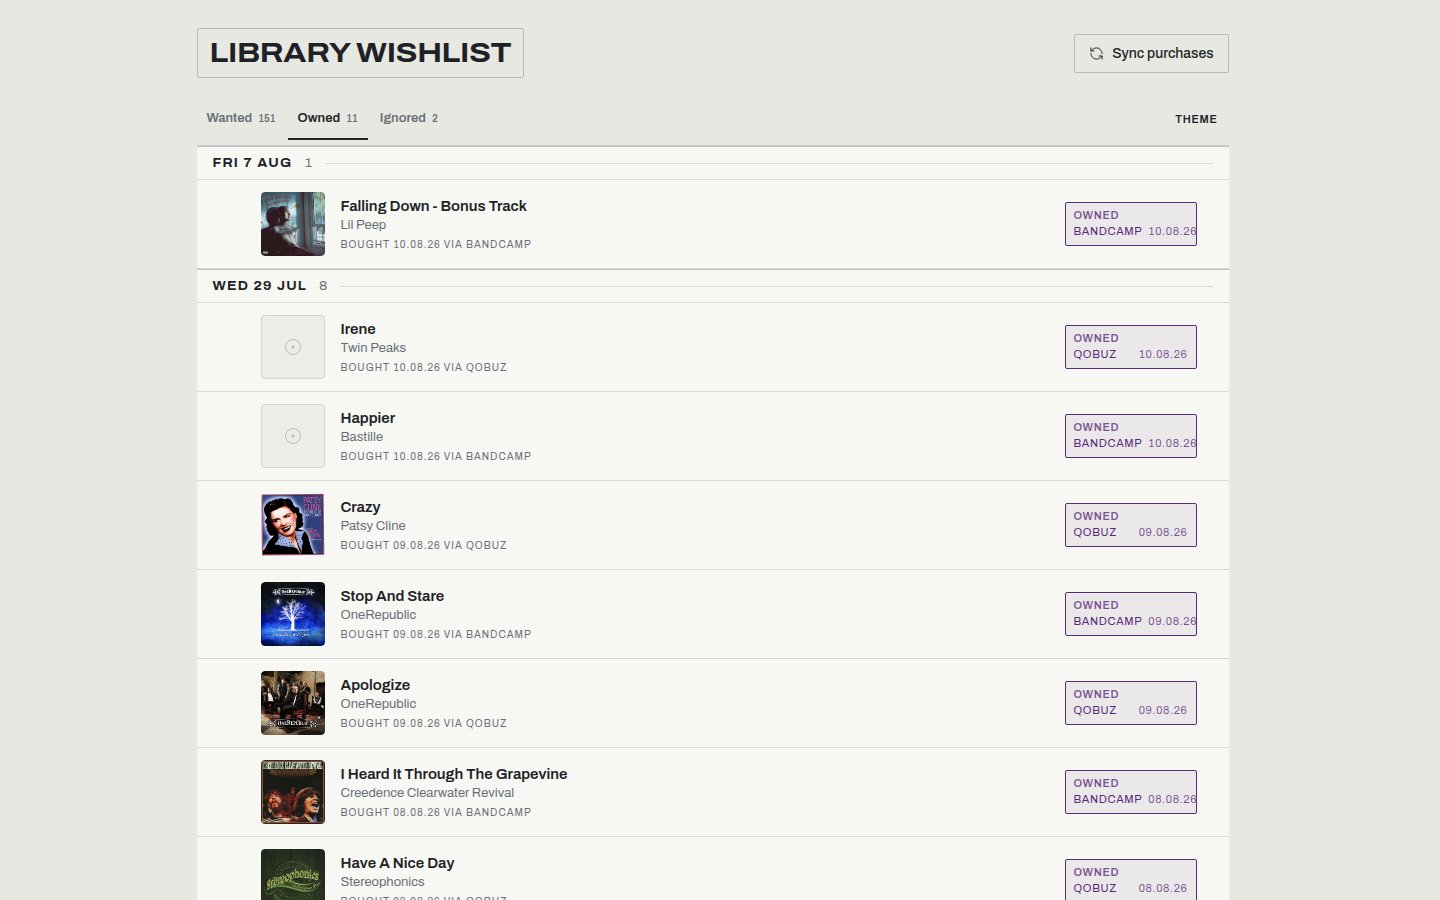
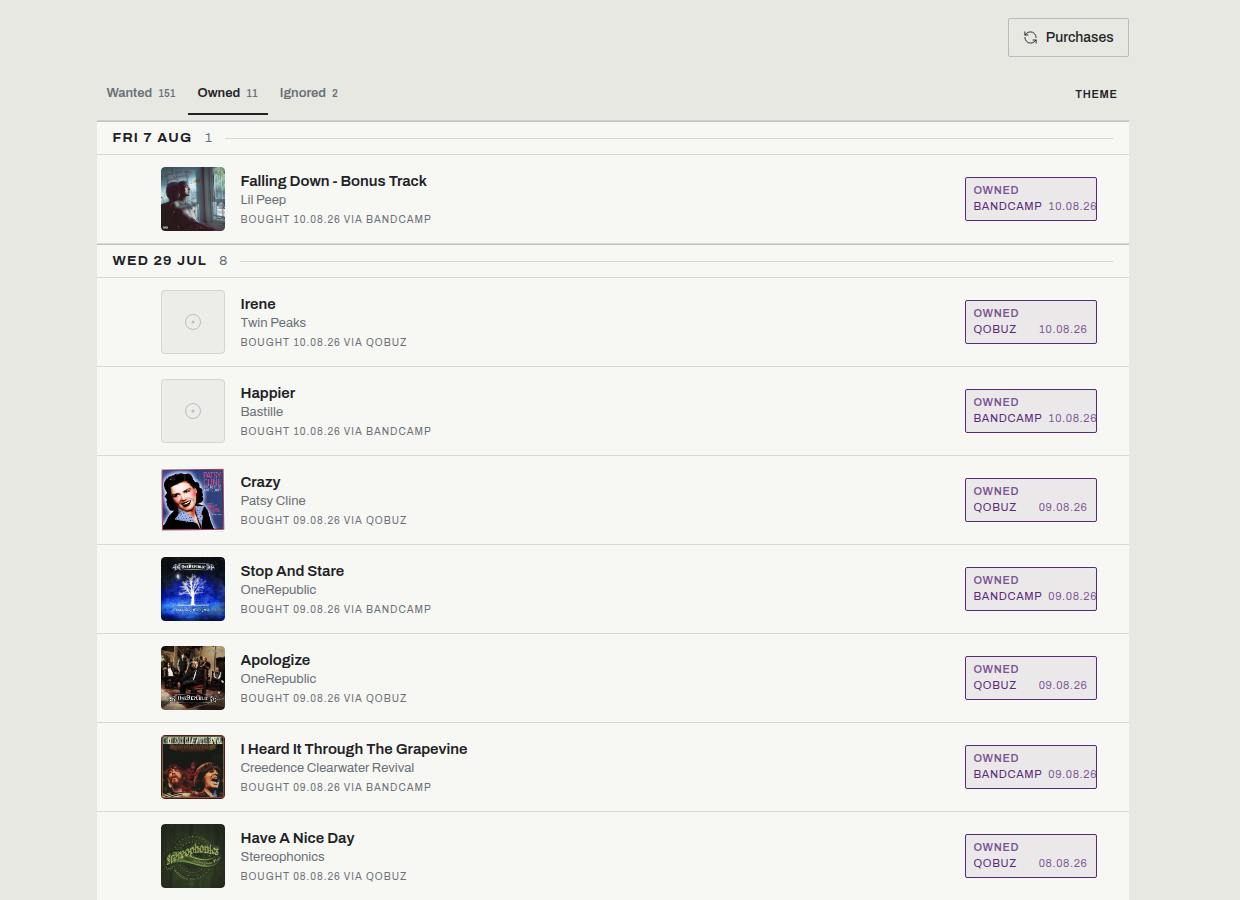
docs: refresh the screenshots for the new header
Also fixes the caption, which described the grouping the want list no longer
defaults to.

diff --git a/README.md b/README.md
@@ -17,7 +17,7 @@ rather buy simply lose track of what they meant to buy. This is the list.
 | Wanted | Owned |
 |---|---|
 | [![The want list](docs/screenshots/wanted.png)](docs/screenshots/wanted.png) | [![What has landed](docs/screenshots/owned.png)](docs/screenshots/owned.png) |
-| Everything loved and still missing, grouped by artist so what you would buy together sits together. | The same rows once the file has landed, each stamped with the shop it came from and the day it arrived. |
+| Everything loved and still missing, newest first. Group by artist instead when the question is what to buy rather than what arrived. | The same rows once the file has landed, each stamped with the shop it came from and the day it arrived. |
 
 ## What it does
 
